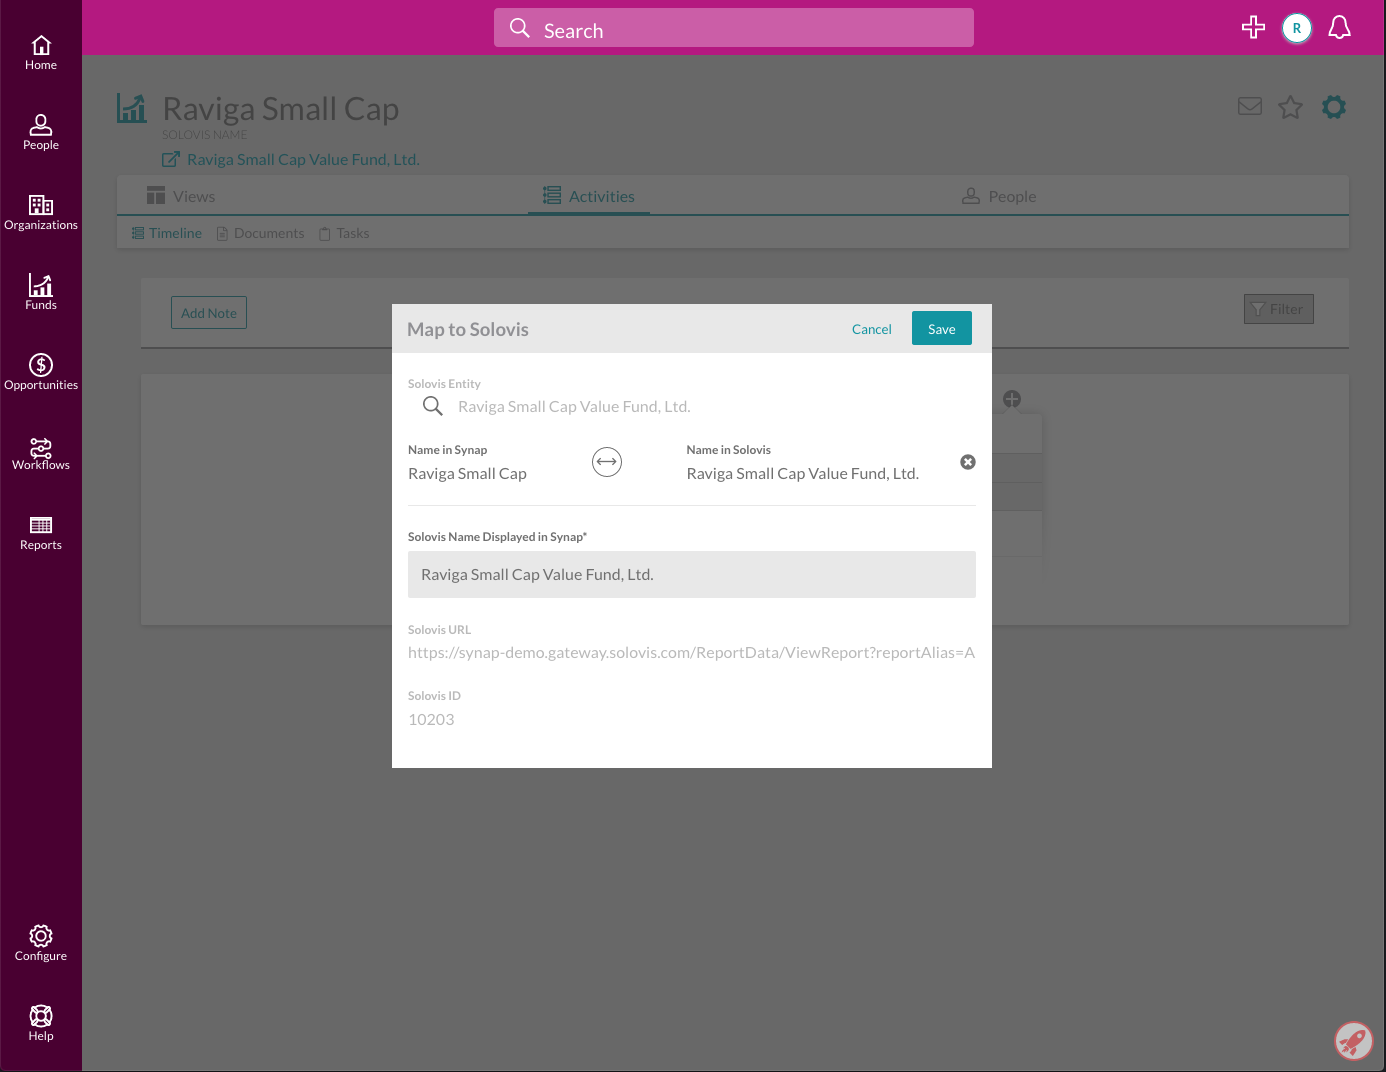
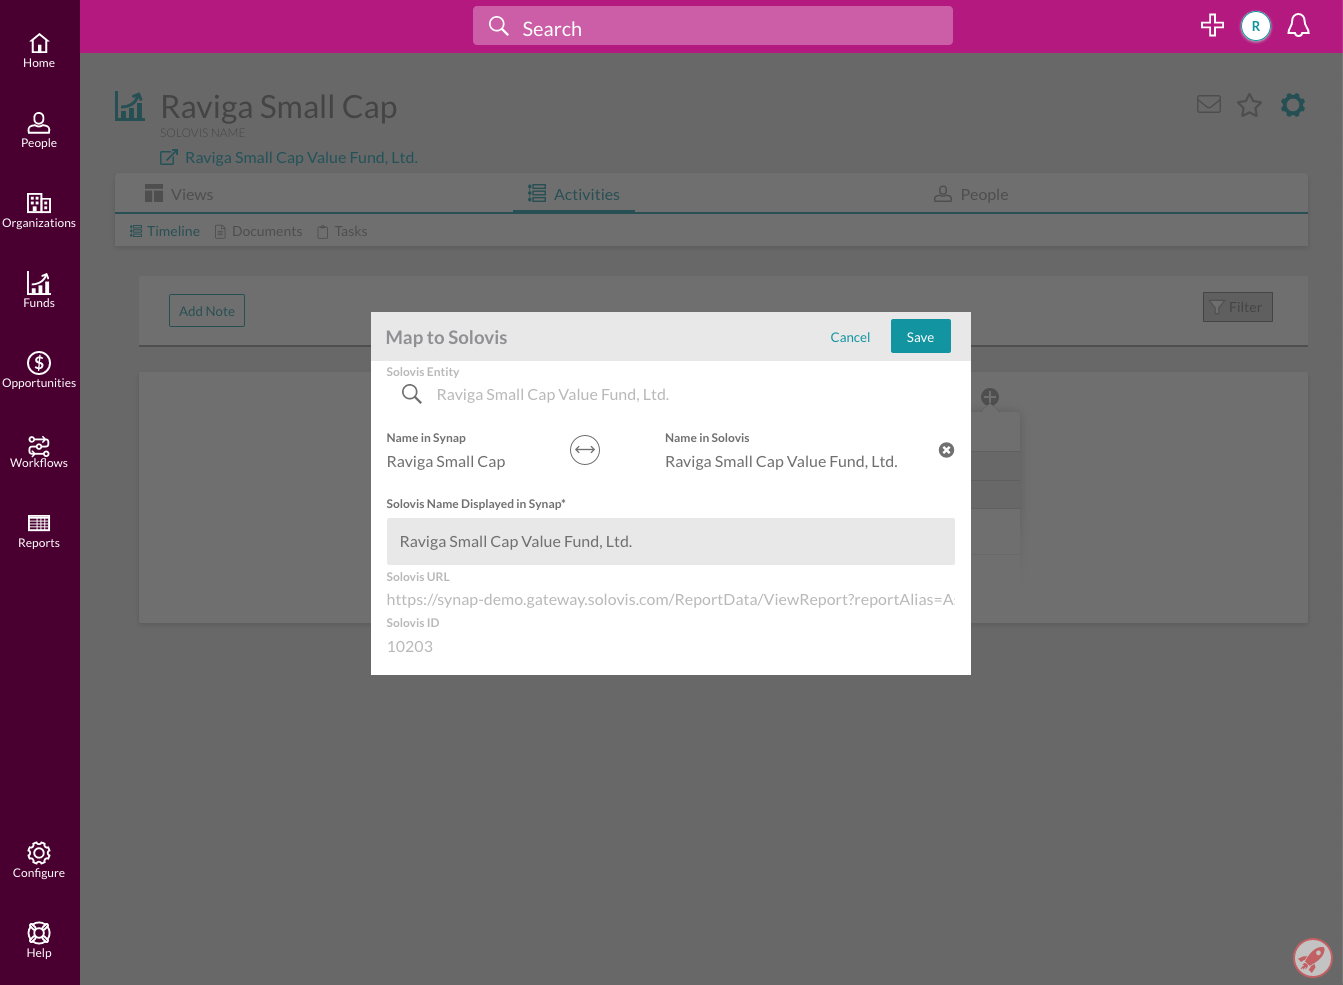
Added all Synap portfolio elements

diff --git a/synap-features.html b/synap-features.html
@@ -211,7 +211,6 @@
             </div>
           </div>
 
-
           <div class="portfolio-section">
             <div class="portfolio-section-header">
               <h3>Standalone Note View - HTML, CSS, React</h3>
@@ -219,23 +218,19 @@
 
             <div class="portfolio-row-job-specific">
               <p>
-                The application features integrations with 3rd party data. Prior to this project,
-                mapping entities in the application to entities in Solovis, an instutional investment
-                management program, had to be done by a member of the team. These mappings could not
-                be set up by users of the app.
+                Clients requested a print-specific view of notes. Prior to this feature,
+                users would need to either screencap notes in the application, which would be inconvenient
+                for longer notes and could include design elements that would be visually distracting in a
+                print-out, or copy and paste information from the application to a printable
+                document, which could introduce bad formatting and potentially lose information.
               </p>
               <p>
-                A teammate and I worked together to create the necessary internal API endpoints,
-                update an API client used to communicate with the Solovis API, and implement a
-                mapping modal on the front end. Major challenges included figuring out what information was and was not available in the Solovis API, working out some implementation details around editing and deleting existing mappings, and handling hand-offs of the project between two different people.
+                I created a separate section of the application solely for print views, removing
+                unnecessary features of the main app and implementing only the design elements and information
+                necessary for displaying the note.
               </p>
               <p>
-                Additionally, some of the components of the front-end were fairly complicated --
-                in particular, I created a text field that filtered a dropdown list of existing
-                entities in Solovis that were available to be mapped to. I had to get clever
-                with using tabindex along with mouse down events to group the dropdown with
-                the text box, allowing them to be treated as a single distinct component with
-                unified behavior instead of two completely separate elements.
+                I also created functionality to hide the comments associated with a note as needed.
               </p>
             </div>
 
@@ -243,192 +238,172 @@
 
             <div class="portfolio-job-screencap-row">
               <div class="portfolio-job-example-card">
-                <a href="./assets/images/itgny-features/entity_mapping_blank.png" data-group="entity_mapping" class="entity_mapping">
+                <a href="./assets/images/itgny-features/standalone_note_view_timeline.png" data-group="note_view" class="note_view">
                   <img
                     class="portfolio-job-thumb"
-                    src="./assets/images/itgny-features/entity_mapping_blank.png"
-                    alt="Blank entity mapping modal"
+                    src="./assets/images/itgny-features/standalone_note_view_timeline.png"
+                    alt="Note views on the timeline"
                   />
                 </a>
                 <div class="portfolio-job-example-caption">
-                  Once a mapping has been selected, the disabled text boxes are filled automatically with the relevant information.
+                  Note views on the main timeline include headers and sidebars and do not print nicely.
                 </div>
               </div>
 
               <div class="portfolio-job-example-card">
-                <a href="./assets/images/itgny-features/entity_mapping_search.png" data-group="entity_mapping" class="entity_mapping">
+                <a href="./assets/images/itgny-features/standalone_note_view_comments.png" data-group="note_view" class="note_view">
                   <img
                     class="portfolio-job-thumb"
-                    src="./assets/images/itgny-features/entity_mapping_search.png"
-                    alt="Filter list example"
+                    src="./assets/images/itgny-features/standalone_note_view_comments.png"
+                    alt="Note view with comments"
                   />
                 </a>
                 <div class="portfolio-job-example-caption">
-                  Clicking on the search field brings up a full list of all available entities. Typing filters the list.
+                  Clicking the pop-out icon takes you to a print view.
                 </div>
               </div>
 
               <div class="portfolio-job-example-card">
-                <a href="./assets/images/itgny-features/entity_mapping_exists.png" data-group="entity_mapping" class="entity_mapping">
+                <a href="./assets/images/itgny-features/standalone_note_view_hidden_comments.png" data-group="note_view" class="note_view">
                   <img
                     class="portfolio-job-thumb"
-                    src="./assets/images/itgny-features/entity_mapping_exists.png"
-                    alt="Mapped entity display"
+                    src="./assets/images/itgny-features/standalone_note_view_hidden_comments.png"
+                    alt="Note view without comments"
                   />
                 </a>
                 <div class="portfolio-job-example-caption">
-                  Once an entity has been mapped, that relationship is displayed in the modal.
+                  Comments on the print view can be hidden or shown, depending on what the user needs.
                 </div>
               </div>
             </div>
           </div>
 
+          <div class="portfolio-section">
+            <div class="portfolio-section-header">
+              <h3>Global Search Mobile View - HTML, CSS, React</h3>
+            </div>
 
+            <div class="portfolio-row-job-specific">
+              <p>
+                In addition to filtering on the desktop view, we implemented mobile-specific filtering and design choices.
+              </p>
+              <p>
+                One of the biggest challenges was getting the new tag placement. A teammate and I used CSS Grid to align the tags to the right of search results in desktop view, and below the results section in mobile view, for a cleaner and more streamlined UI.
+              </p>
+              <p>
+                I also created functionality to hide the comments associated with a note as needed.
+              </p>
+            </div>
 
+            <h4>Screenshots</h4>
 
+            <div class="portfolio-job-screencap-row">
+              <div class="portfolio-job-example-card">
+                <a href="./assets/images/itgny-features/mobile_view_desktop.png" data-group="mobile_global_view" class="mobile_global_view">
+                  <img
+                    class="portfolio-job-thumb"
+                    src="./assets/images/itgny-features/mobile_view_desktop.png"
+                    alt="Note views on the timeline"
+                  />
+                </a>
+                <div class="portfolio-job-example-caption">
+                  On the desktop view, the filter section is to the right of the search results. Tags (the colored lozenges on each result) are displayed on the right side of each result.
+                </div>
+              </div>
 
+              <div class="portfolio-job-example-card">
+                <a href="./assets/images/itgny-features/mobile_view_mobile.png" data-group="mobile_global_view" class="mobile_global_view">
+                  <img
+                    class="portfolio-job-thumb"
+                    src="./assets/images/itgny-features/mobile_view_mobile.png"
+                    alt="Note view with comments"
+                  />
+                </a>
+                <div class="portfolio-job-example-caption">
+                  Mobile results have a different structure, created using CSS Grid.
+                </div>
+              </div>
 
-
-
-
+              <div class="portfolio-job-example-card">
+                <a href="./assets/images/itgny-features/mobile_view_filter.png" data-group="mobile_global_view" class="mobile_global_view">
+                  <img
+                    class="portfolio-job-thumb"
+                    src="./assets/images/itgny-features/mobile_view_filter.png"
+                    alt="Note view without comments"
+                  />
+                </a>
+                <div class="portfolio-job-example-caption">
+                  Mobile filtering is a drawer, accessed via the funnel button.
+                </div>
+              </div>
+            </div>
+          </div>
 
           <div class="portfolio-section">
             <div class="portfolio-section-header">
-              <h3>Standalone Note View - HTML, CSS, React</h3>
+              <h3>Modal Style Unification - HTML, CSS, React</h3>
             </div>
 
-            <div class="portfolio-row">
-
-                <p>
-                  Clients requested a print-specific view of notes. Prior to this feature, there was no good way to print a note -- clients would either have to screencap their screens, or copy and paste information from the application to a printable document.
-                </p>
-                <p>
-                  I created a separate section of the application, removing the majority of unneeded features and implementing only the information needed to show the note.
-                </p>
-
-              <div class="portfolio-text-wrapper">
-                Reusable components created:
-                <ul>
-                  <li>
-                    Standalone section of the app without additional features
-                  </li>
-                  <li>
-                    Sliding toggle
-                  </li>
-                  <li>
-                    Print functionality
-                  </li>
-                </ul>
-              </div>
+            <div class="portfolio-row-job-specific">
+              <p>
+                Before I started on the project, modal implementation was somewhat scattershot -- some modals had headers and some didn't, some modals had buttons at the top and some had buttons at the bottom, and so on. After I implemented the new tag modal design, I went through the app to switch all modals to a single unified style.
+              </p>
+              <p>
+                The biggest challenge here was actually around pulling out existing styles -- our modal had originally been a <a href="https://react.foundation/">Foundation</a> modal with built-in padding. Several of the modals in the app had a lot of brittle styling around overriding the existing modal styles.
+              </p>
+              <p>
+                I pulled out unnecessary CSS styling I also created a new ModalHeader component, which gave us a consistent style and functionality for all our modals, allowing easier maintenance and unified user experience.
+              </p>
             </div>
 
+            <h4>Screenshots</h4>
 
-            <div class="portfolio-row">
-              <div class="portfolio-img-wrapper">
-                <img
-                  class="portfolio-img"
-                  src="./assets/images/itgny-features/search_filter_type_only.png"
-                  alt="Search filter with kinds only"
-              />
-                The note view in the main app includes links to the standalone note view and a link to automatically print the standalone note view.
+            <div class="portfolio-job-screencap-row">
+              <div class="portfolio-job-example-card">
+                <a href="./assets/images/itgny-features/modal_unity_old_modals.png" data-group="mobile_global_view" class="mobile_global_view">
+                  <img
+                    class="portfolio-job-thumb"
+                    src="./assets/images/itgny-features/modal_unity_old_modals.png"
+                    alt="Old modals"
+                  />
+                </a>
+                <div class="portfolio-job-example-caption">
+                  Old modals had a variety of styles and functionalities.
+                </div>
               </div>
 
-              <div class="portfolio-img-wrapper">
-                <img
-                  class="portfolio-img"
-                  src="./assets/images/itgny-features/search_filter_tag_modal.png"
-                  alt="Search filter with kinds only"
-              />
-                Comments on each note are available in the standalone view; these comments can be hidden, if desired.
+              <div class="portfolio-job-example-card">
+                <a href="./assets/images/itgny-features/modal_unity_new_modals.png" data-group="mobile_global_view" class="mobile_global_view">
+                  <img
+                    class="portfolio-job-thumb"
+                    src="./assets/images/itgny-features/modal_unity_new_modals.png"
+                    alt="New modals"
+                  />
+                </a>
+                <div class="portfolio-job-example-caption">
+                  Updated modal styles always include buttons in the header and more elegant formatting.
+                </div>
               </div>
 
-              <div class="portfolio-img-wrapper">
-                <img
-                  class="portfolio-img"
-                  src="./assets/images/itgny-features/search_filter_applied.png"
-                  alt="Search filter with kinds only"
-              />
-                The print button allows users to print to their printer or to PDF or other export.
-              </div>
-            </div>
-          </div>
-
-
-          <div class="portfolio-section">
-            <div class="portfolio-section-header">
-              <h3>Modal Unification - HTML, CSS, React</h3>
-            </div>
-
-            <div class="portfolio-row">
-              <div class="portfolio-text-wrapper">
-                <p>
-                  Several different modal styles were being used in the app. Additionally,
-                </p>
-                <p>
-                  I created a separate section of the application, removing the majority of unneeded features and implementing only the information needed to show the note.
-                </p>
-              </div>
-              <div class="portfolio-text-wrapper">
-                Reusable components created:
-                <ul>
-                  <li>
-                    Standalone section of the app without additional features
-                  </li>
-                  <li>
-                    Sliding toggle
-                  </li>
-                  <li>
-                    Print functionality
-                  </li>
-                </ul>
-              </div>
-            </div>
-
-
-            <div class="portfolio-row">
-              <div class="portfolio-img-wrapper">
-                <img
-                  class="portfolio-img"
-                  src="./assets/images/itgny-features/search_filter_type_only.png"
-                  alt="Search filter with kinds only"
-              />
-                The note view in the main app includes links to the standalone note view and a link to automatically print the standalone note view.
-              </div>
-
-              <div class="portfolio-img-wrapper">
-                <img
-                  class="portfolio-img"
-                  src="./assets/images/itgny-features/search_filter_tag_modal.png"
-                  alt="Search filter with kinds only"
-              />
-                Comments on each note are available in the standalone view; these comments can be hidden, if desired.
-              </div>
-
-              <div class="portfolio-img-wrapper">
-                <img
-                  class="portfolio-img"
-                  src="./assets/images/itgny-features/search_filter_applied.png"
-                  alt="Search filter with kinds only"
-              />
-                The print button allows users to print to their printer or to PDF or other export.
+              <div class="portfolio-job-example-card">
+                <a href="./assets/images/itgny-features/modal_unity_example.png" data-group="mobile_global_view" class="mobile_global_view">
+                  <img
+                    class="portfolio-job-thumb"
+                    src="./assets/images/itgny-features/modal_unity_example.png"
+                    alt="Example modal"
+                  />
+                </a>
+                <div class="portfolio-job-example-caption">
+                  The new modal styling matches the overall look and feel of the app.
+                </div>
               </div>
             </div>
           </div>
-
-
-
-          </div>
-
 
         </div>
       </main>
     </div>
 
-
-    <a href="#inline" class="inline">Show</a>
-    <div id="inline" style="display:none;">
-    	<p>Cras justo odio, dapibus ac facilisis in, egestas eget quam. Aenean eu leo quam. Pellentesque ornare sem lacinia quam venenatis vestibulum. Praesent commodo cursus magna, vel scelerisque nisl consectetur et.</p>
-    </div>
 
     <script
 			  src="https://code.jquery.com/jquery-3.4.1.min.js"

diff --git a/assets/css/style.css b/assets/css/style.css
@@ -152,11 +152,6 @@ main {
   margin: auto;
 }
 
-.portfolio-job-caption {
-  margin: 7px 0;
-  line-height: 1.2;
-}
-
 .portfolio-job-thumb {
   width: 100%;
 }
@@ -173,6 +168,7 @@ main {
 
 .portfolio-job-example-caption {
   margin-top: 10px;
+  line-height: 1.2;
 }
 
 /* mobile responsiveness and media queries */

diff --git a/assets/javascript/main.js b/assets/javascript/main.js
@@ -7,3 +7,12 @@ $('.search_filter').modaal({
 $('.entity_mapping').modaal({
     type: 'image'
 });
+
+$('.note_view').modaal({
+    type: 'image'
+});
+
+$('.mobile_global_view').modaal({
+    type: 'image'
+});
+
